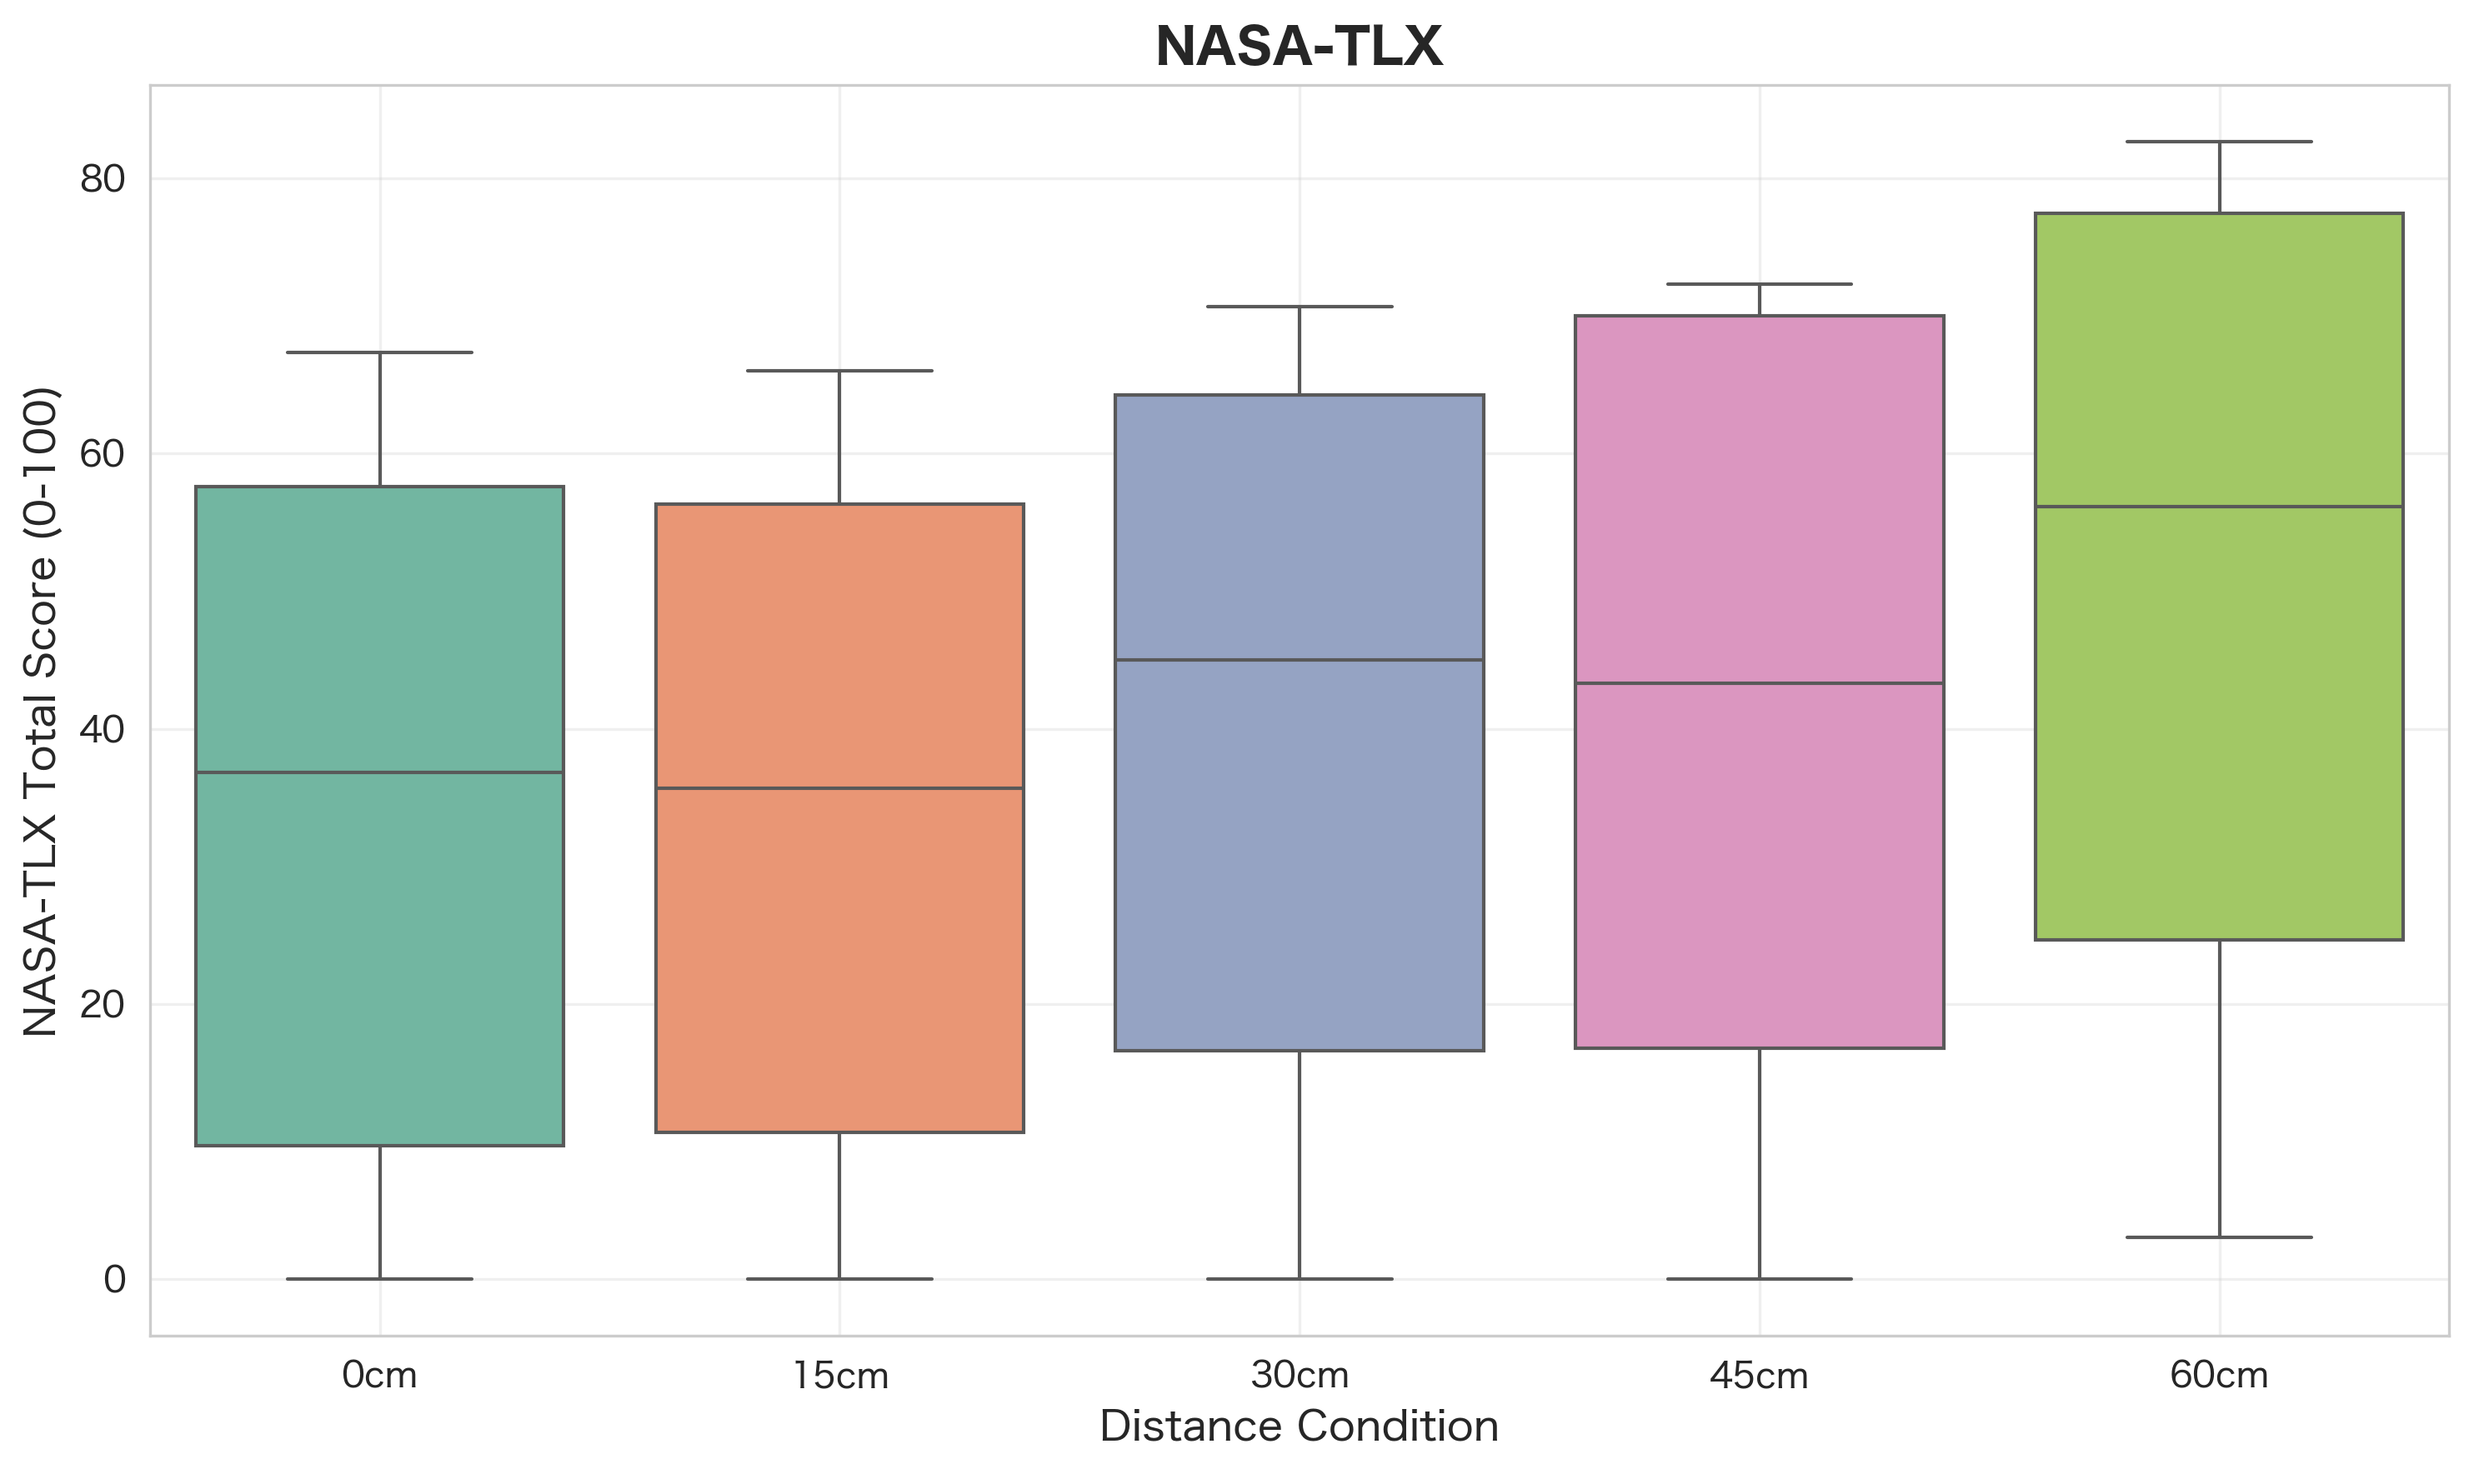
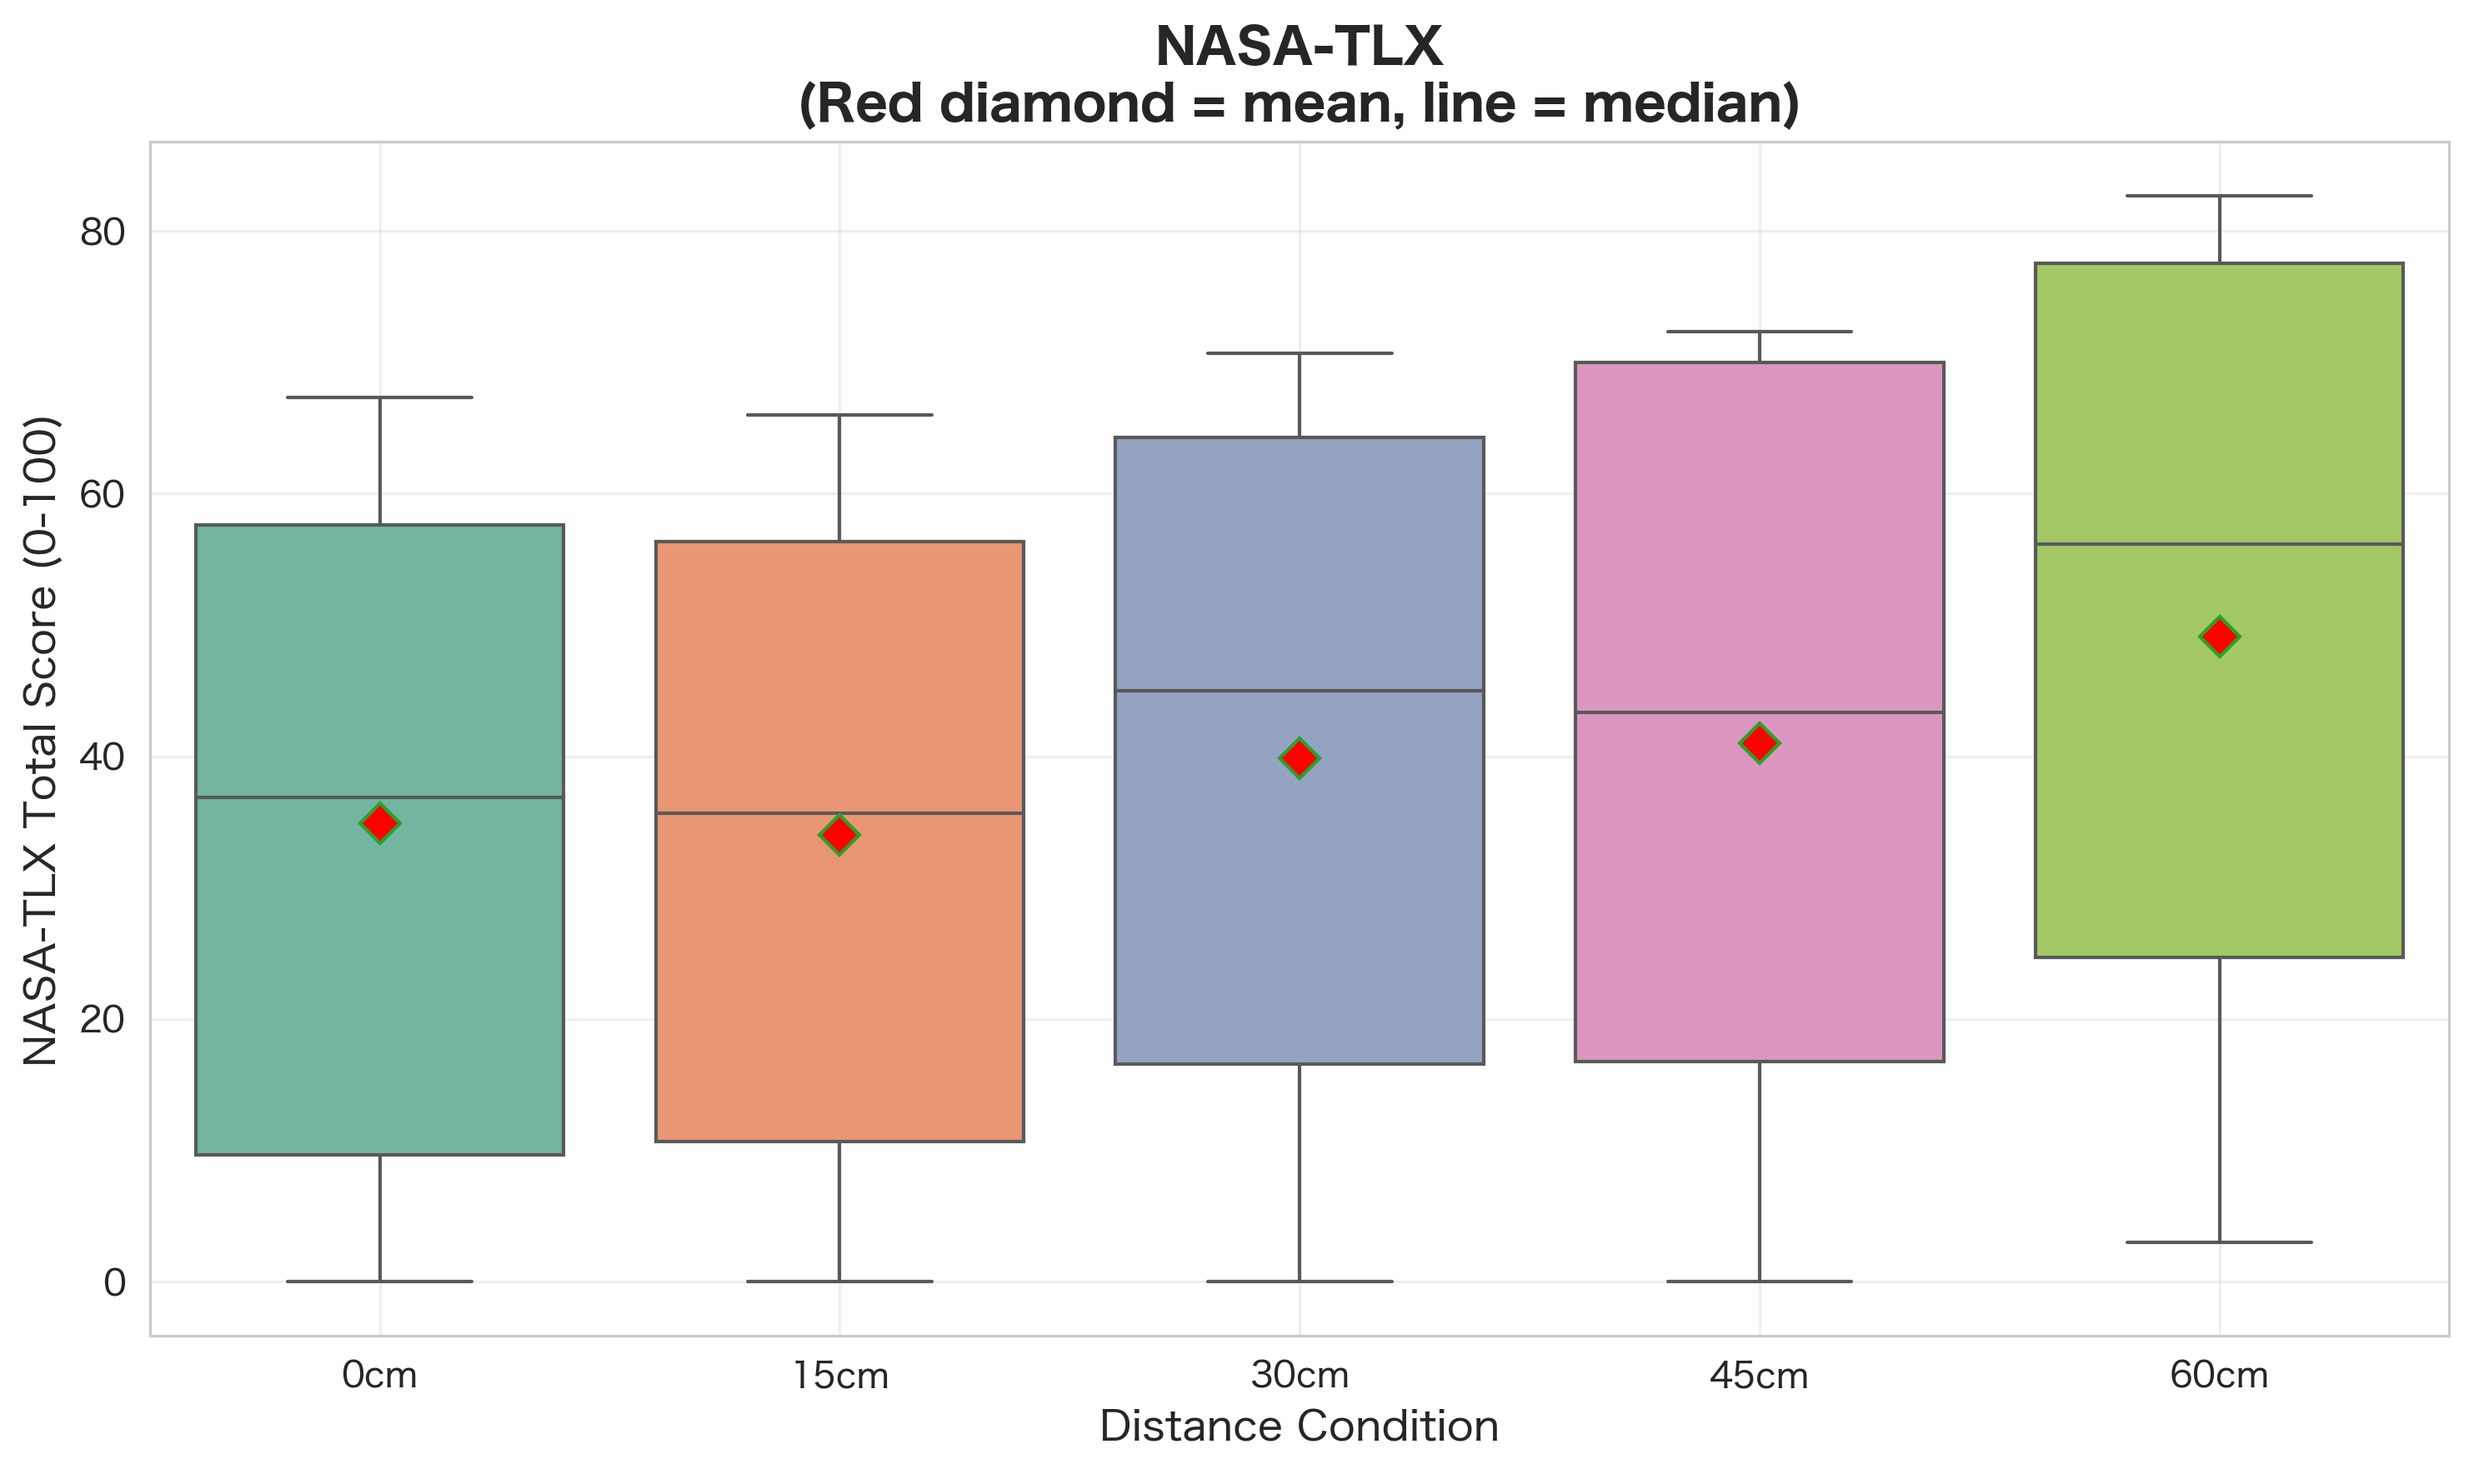
fix: nasatlxに平均値をプロットする

diff --git a/project/src/analysis/performance_all_participants_viz.py b/project/src/analysis/performance_all_participants_viz.py
@@ -1,0 +1,184 @@
+#!/usr/bin/env python3
+"""
+Performance Visualization - All Participants (Including Outliers)
+
+This script visualizes task time data for ALL participants without excluding outliers.
+Generates bar plot showing mean task times across 5 distance conditions.
+
+Author: Generated for comic-effect project
+Date: 2025-11-04
+"""
+
+import pandas as pd
+import numpy as np
+import matplotlib.pyplot as plt
+import seaborn as sns
+from pathlib import Path
+import warnings
+
+warnings.filterwarnings('ignore')
+
+# Set style for better visualizations
+sns.set_style("whitegrid")
+plt.rcParams['figure.figsize'] = (12, 8)
+plt.rcParams['font.size'] = 10
+
+
+class PerformanceVisualizerAllParticipants:
+    """Visualize performance data for all participants including outliers"""
+
+    def __init__(self, csv_path, output_dir):
+        """
+        Initialize with paths
+
+        Args:
+            csv_path: Path to performance.csv file
+            output_dir: Directory to save output graphs
+        """
+        self.csv_path = Path(csv_path)
+        self.output_dir = Path(output_dir)
+        self.df_raw = None
+        self.df_averaged = None
+
+    def load_data(self):
+        """Load data WITHOUT excluding any participants"""
+        print("=" * 80)
+        print("LOADING DATA - ALL PARTICIPANTS (NO OUTLIER EXCLUSION)")
+        print("=" * 80)
+
+        self.df_raw = pd.read_csv(self.csv_path)
+
+        print(f"\nRaw data shape: {self.df_raw.shape}")
+        print(f"Columns: {list(self.df_raw.columns)}")
+        print(f"\nFirst few rows:")
+        print(self.df_raw.head(10))
+
+        # Basic info
+        print(f"\nNumber of participants: {self.df_raw['name'].nunique()}")
+        print(f"Participants: {sorted(self.df_raw['name'].unique())}")
+        print(f"Number of distance conditions: {self.df_raw['task'].nunique()}")
+        print(f"Distance conditions: {sorted(self.df_raw['task'].unique())}")
+
+    def calculate_averaged_trials(self):
+        """Calculate mean of 3 trials for each participant x distance"""
+        print("\n" + "=" * 80)
+        print("CALCULATING AVERAGED TRIALS")
+        print("=" * 80)
+
+        # Calculate mean of 3 trials for each participant x distance
+        self.df_averaged = self.df_raw.copy()
+        self.df_averaged['mean_performance'] = self.df_averaged[['no1', 'no2', 'no3']].mean(axis=1)
+
+        print("\nAveraged data (3 trials → mean):")
+        print(self.df_averaged[['name', 'task', 'no1', 'no2', 'no3', 'mean_performance']].head(10))
+
+        # Create summary statistics by distance
+        summary = self.df_averaged.groupby('task')['mean_performance'].agg(['count', 'mean', 'std', 'sem'])
+        print("\nSummary by distance condition:")
+        print(summary)
+
+    def create_barplot(self):
+        """Create bar plot with mean ± SEM"""
+        print("\n" + "=" * 80)
+        print("GENERATING BAR PLOT")
+        print("=" * 80)
+
+        # Ensure output directory exists
+        self.output_dir.mkdir(parents=True, exist_ok=True)
+
+        # Map task codes to distance labels
+        condition_labels = {
+            'a': '0cm',
+            'b': '15cm',
+            'c': '30cm',
+            'd': '45cm',
+            'e': '60cm'
+        }
+        distance_order = ['0cm', '15cm', '30cm', '45cm', '60cm']
+
+        # Create a copy with mapped labels
+        df_plot = self.df_averaged.copy()
+        df_plot['distance'] = df_plot['task'].map(condition_labels)
+
+        # Calculate summary statistics
+        summary = df_plot.groupby('distance')['mean_performance'].agg(['mean', 'sem']).reset_index()
+
+        # Ensure correct order
+        summary['distance'] = pd.Categorical(summary['distance'],
+                                            categories=distance_order, ordered=True)
+        summary = summary.sort_values('distance')
+
+        # Create bar plot
+        fig, ax = plt.subplots(figsize=(10, 6))
+
+        bars = ax.bar(summary['distance'], summary['mean'],
+                     yerr=summary['sem'], capsize=8,
+                     alpha=0.7, color='skyblue', edgecolor='navy', linewidth=1.5)
+
+        ax.set_title('Mean Task Time by Distance - All Participants (Including Outliers)',
+                    fontsize=14, fontweight='bold')
+        ax.set_xlabel('Distance Condition', fontsize=12)
+        ax.set_ylabel('Task Time [seconds] (Mean ± SEM)', fontsize=12)
+        ax.grid(True, alpha=0.3, axis='y')
+
+        # Add value labels on bars
+        for bar in bars:
+            height = bar.get_height()
+            ax.text(bar.get_x() + bar.get_width()/2., height,
+                   f'{height:.2f}',
+                   ha='center', va='bottom', fontsize=10)
+
+        # Add note about including all participants
+        ax.text(0.02, 0.98, 'Note: All 9 participants included (no outlier exclusion)',
+               transform=ax.transAxes, fontsize=9, verticalalignment='top',
+               bbox=dict(boxstyle='round', facecolor='wheat', alpha=0.3))
+
+        plt.tight_layout()
+
+        # Save the plot
+        filename = "barplot_all_participants_averaged.png"
+        output_path = self.output_dir / filename
+        plt.savefig(output_path, dpi=300, bbox_inches='tight')
+        print(f"\n✓ Bar plot saved to: {output_path}")
+        plt.close()
+
+        # Print summary statistics
+        print("\nSummary Statistics by Distance:")
+        print(summary)
+
+        return output_path
+
+    def run(self):
+        """Run the complete visualization workflow"""
+        print("\n" + "🎨" * 40)
+        print("PERFORMANCE VISUALIZATION - ALL PARTICIPANTS")
+        print("🎨" * 40 + "\n")
+
+        # Step 1: Load data (no exclusions)
+        self.load_data()
+
+        # Step 2: Calculate averaged trials
+        self.calculate_averaged_trials()
+
+        # Step 3: Create bar plot
+        output_path = self.create_barplot()
+
+        print("\n" + "=" * 80)
+        print("✅ VISUALIZATION COMPLETE!")
+        print("=" * 80)
+        print(f"\nOutput saved to: {output_path}")
+
+
+def main():
+    """Main execution function"""
+    # Define paths
+    csv_path = Path(__file__).parent.parent.parent / "files" / "performance.csv"
+    output_dir = Path(__file__).parent.parent.parent / "files" / "anova_results"
+
+    # Create visualizer and run
+    visualizer = PerformanceVisualizerAllParticipants(csv_path, output_dir)
+    visualizer.run()
+
+
+if __name__ == "__main__":
+    main()

diff --git a/project/src/analysis/performance_friedman.py b/project/src/analysis/performance_friedman.py
@@ -131,7 +131,7 @@ class FriedmanAnalysis:
 
         self.df_raw = pd.read_csv(self.csv_path)
 
-        # Exclude taninaka (outlier) - filter by name containing 'taninaka' or '谷中'
+        # 全参加者を表示するならここをコメントアウト：Exclude taninaka (outlier) - filter by name containing 'taninaka' or '谷中'
         original_shape = self.df_raw.shape
         self.df_raw = self.df_raw[~self.df_raw[self.subject_col].str.contains('taninaka|谷中', case=False, na=False)]
         excluded_count = original_shape[0] - self.df_raw.shape[0]
@@ -140,6 +140,7 @@ class FriedmanAnalysis:
         print(f"Columns: {list(self.df_raw.columns)}")
         print(f"\nFirst few rows:")
         print(self.df_raw.head(10))
+        # ここまでコメントアウト =========================
 
         # Basic info
         print(f"\nNumber of participants: {self.df_raw[self.subject_col].nunique()}")

diff --git a/project/src/analysis/nasatlx_anova.py b/project/src/analysis/nasatlx_anova.py
@@ -411,8 +411,9 @@ class NASATLXAnova:
 
         # Box plot
         sns.boxplot(data=self.df_raw, x='distance', y='total_score', ax=ax,
-                   palette='Set2', order=self.distance_order)
-        ax.set_title('NASA-TLX',
+                   palette='Set2', order=self.distance_order, showmeans=True,
+                   meanprops={'marker': 'D', 'markerfacecolor': 'red', 'markersize': 8})
+        ax.set_title('NASA-TLX\n(Red diamond = mean, line = median)',
                          fontsize=14, fontweight='bold')
         ax.set_xlabel('Distance Condition', fontsize=12)
         ax.set_ylabel('NASA-TLX Total Score (0-100)', fontsize=12)
